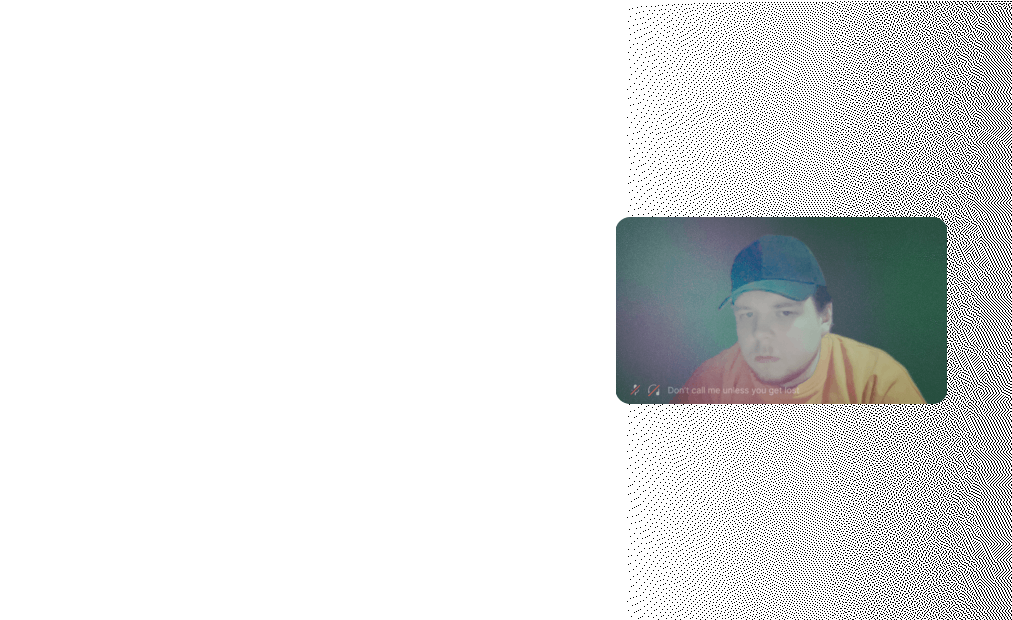
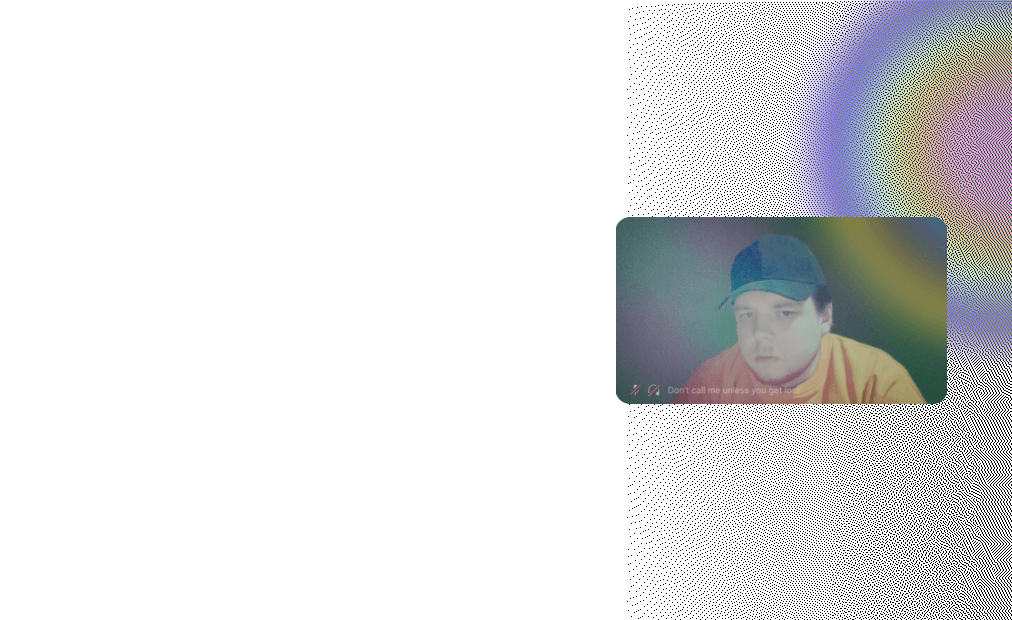
wooow

Changed region(s): [[0.7658, 0.0, 1.0, 0.6129]]

diff --git a/index.html b/index.html
@@ -110,17 +110,6 @@
   <script>
   const spotify = (text) => {if (text=='paused'||text=='⚠ Error, try again later') {document.getElementById("spotify-paragraph").outerHTML = "&nbsp;";} else {document.getElementById("spotify-paragraph").innerHTML = 'now playing on my Spotify: <span id="spotify">' + text + '</span>'}};
   fetch('https://spotify-now-playing.glitch.me/api').then(response => response.text()).then(text => spotify(text));
-  // function randomInteger(min, max) {let rand = min + Math.random() * (max + 1 - min);return Math.floor(rand);}
-  // let k = randomInteger(1,35);
-  // var pic = new Image();
-  // pic.onload = function() {
-  // document.body.style.background = "rgba(133, 182, 255, 1.0)";//`url('./bgs/${k}-min.png')`;
-  // document.getElementById("main").style.background = "rgba(133, 182, 255, 0.0)";
-  // }
-  // pic.src = `/bgs/${k}-min.png`;
-  // document.body.onscroll = function(){
-  // document.body.style.backgroundPositionY = window.pageYOffset +"px";
-  // };
   (function(m,e,t,r,i,k,a){m[i]=m[i]||function(){(m[i].a=m[i].a||[]).push(arguments)}; m[i].l=1*new Date();k=e.createElement(t),a=e.getElementsByTagName(t)[0],k.async=1,k.src=r,a.parentNode.insertBefore(k,a)})(window, document, "script", "https://mc.yandex.ru/metrika/tag.js", "ym");ym(69660460, "init", {clickmap:true, trackLinks:true, accurateTrackBounce:true, webvisor:true});
   </script>
   <noscript><div><img src="https://mc.yandex.ru/watch/69660460" style="position:absolute; left:-9999px;" alt="" /></div></noscript>
